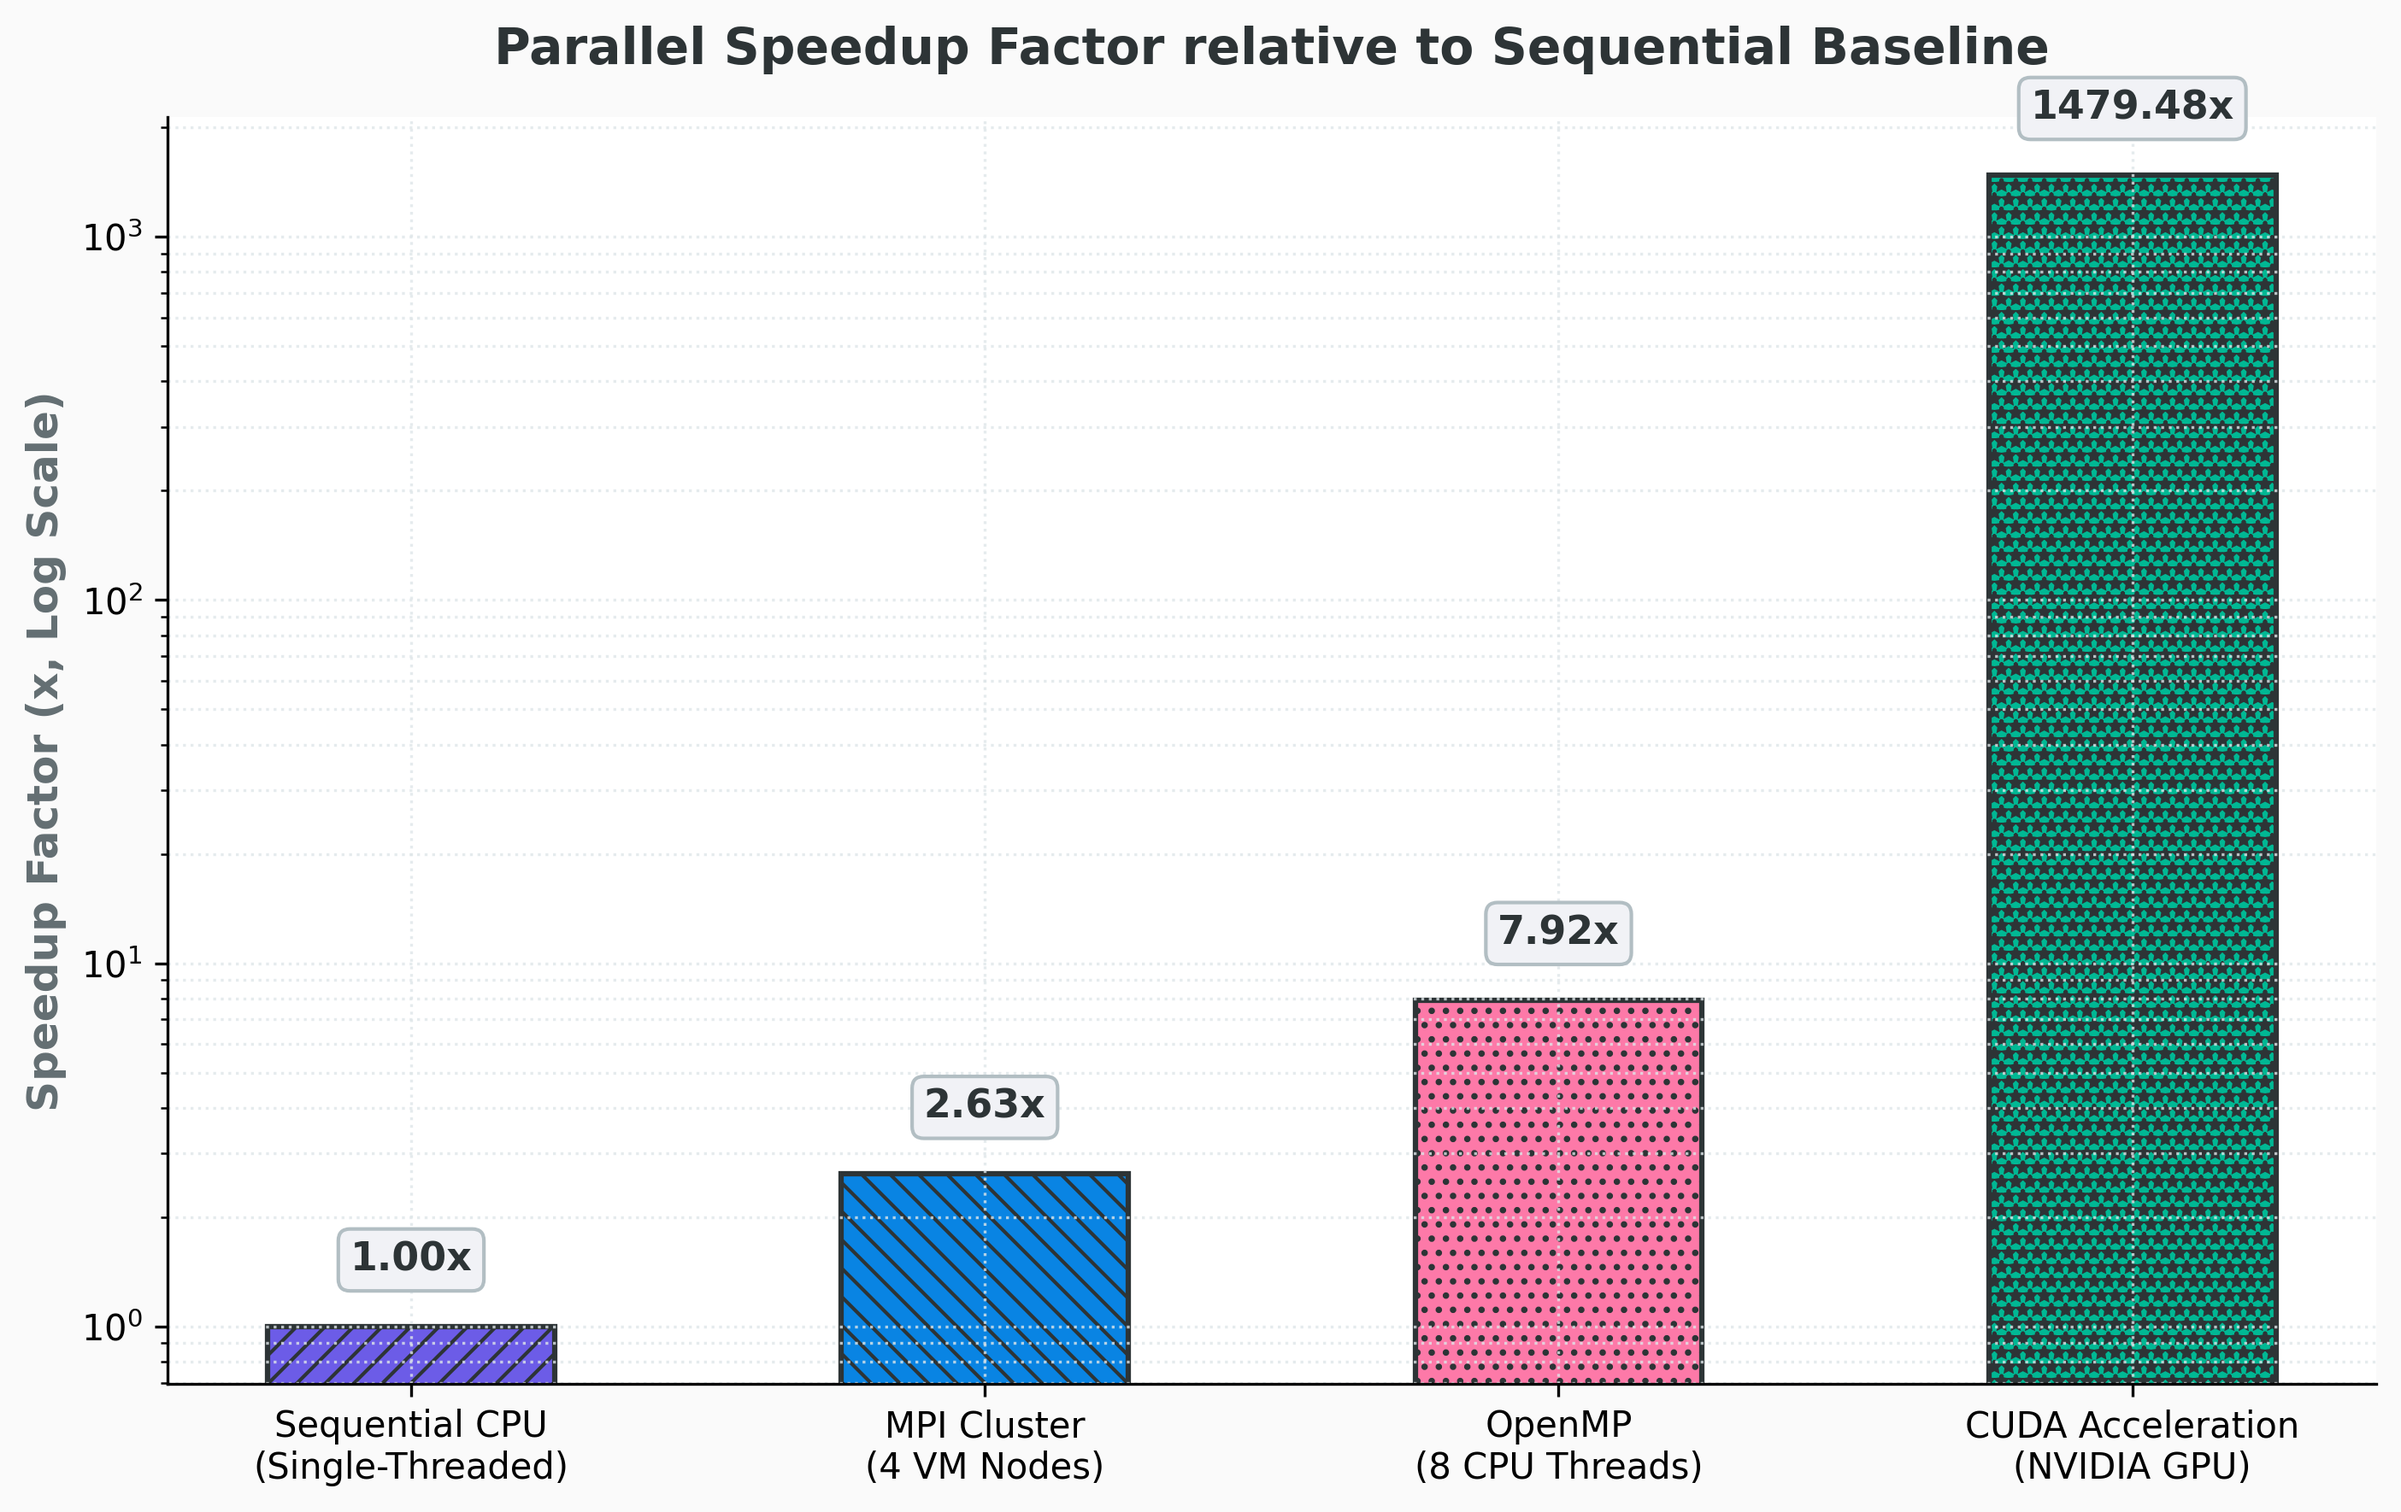
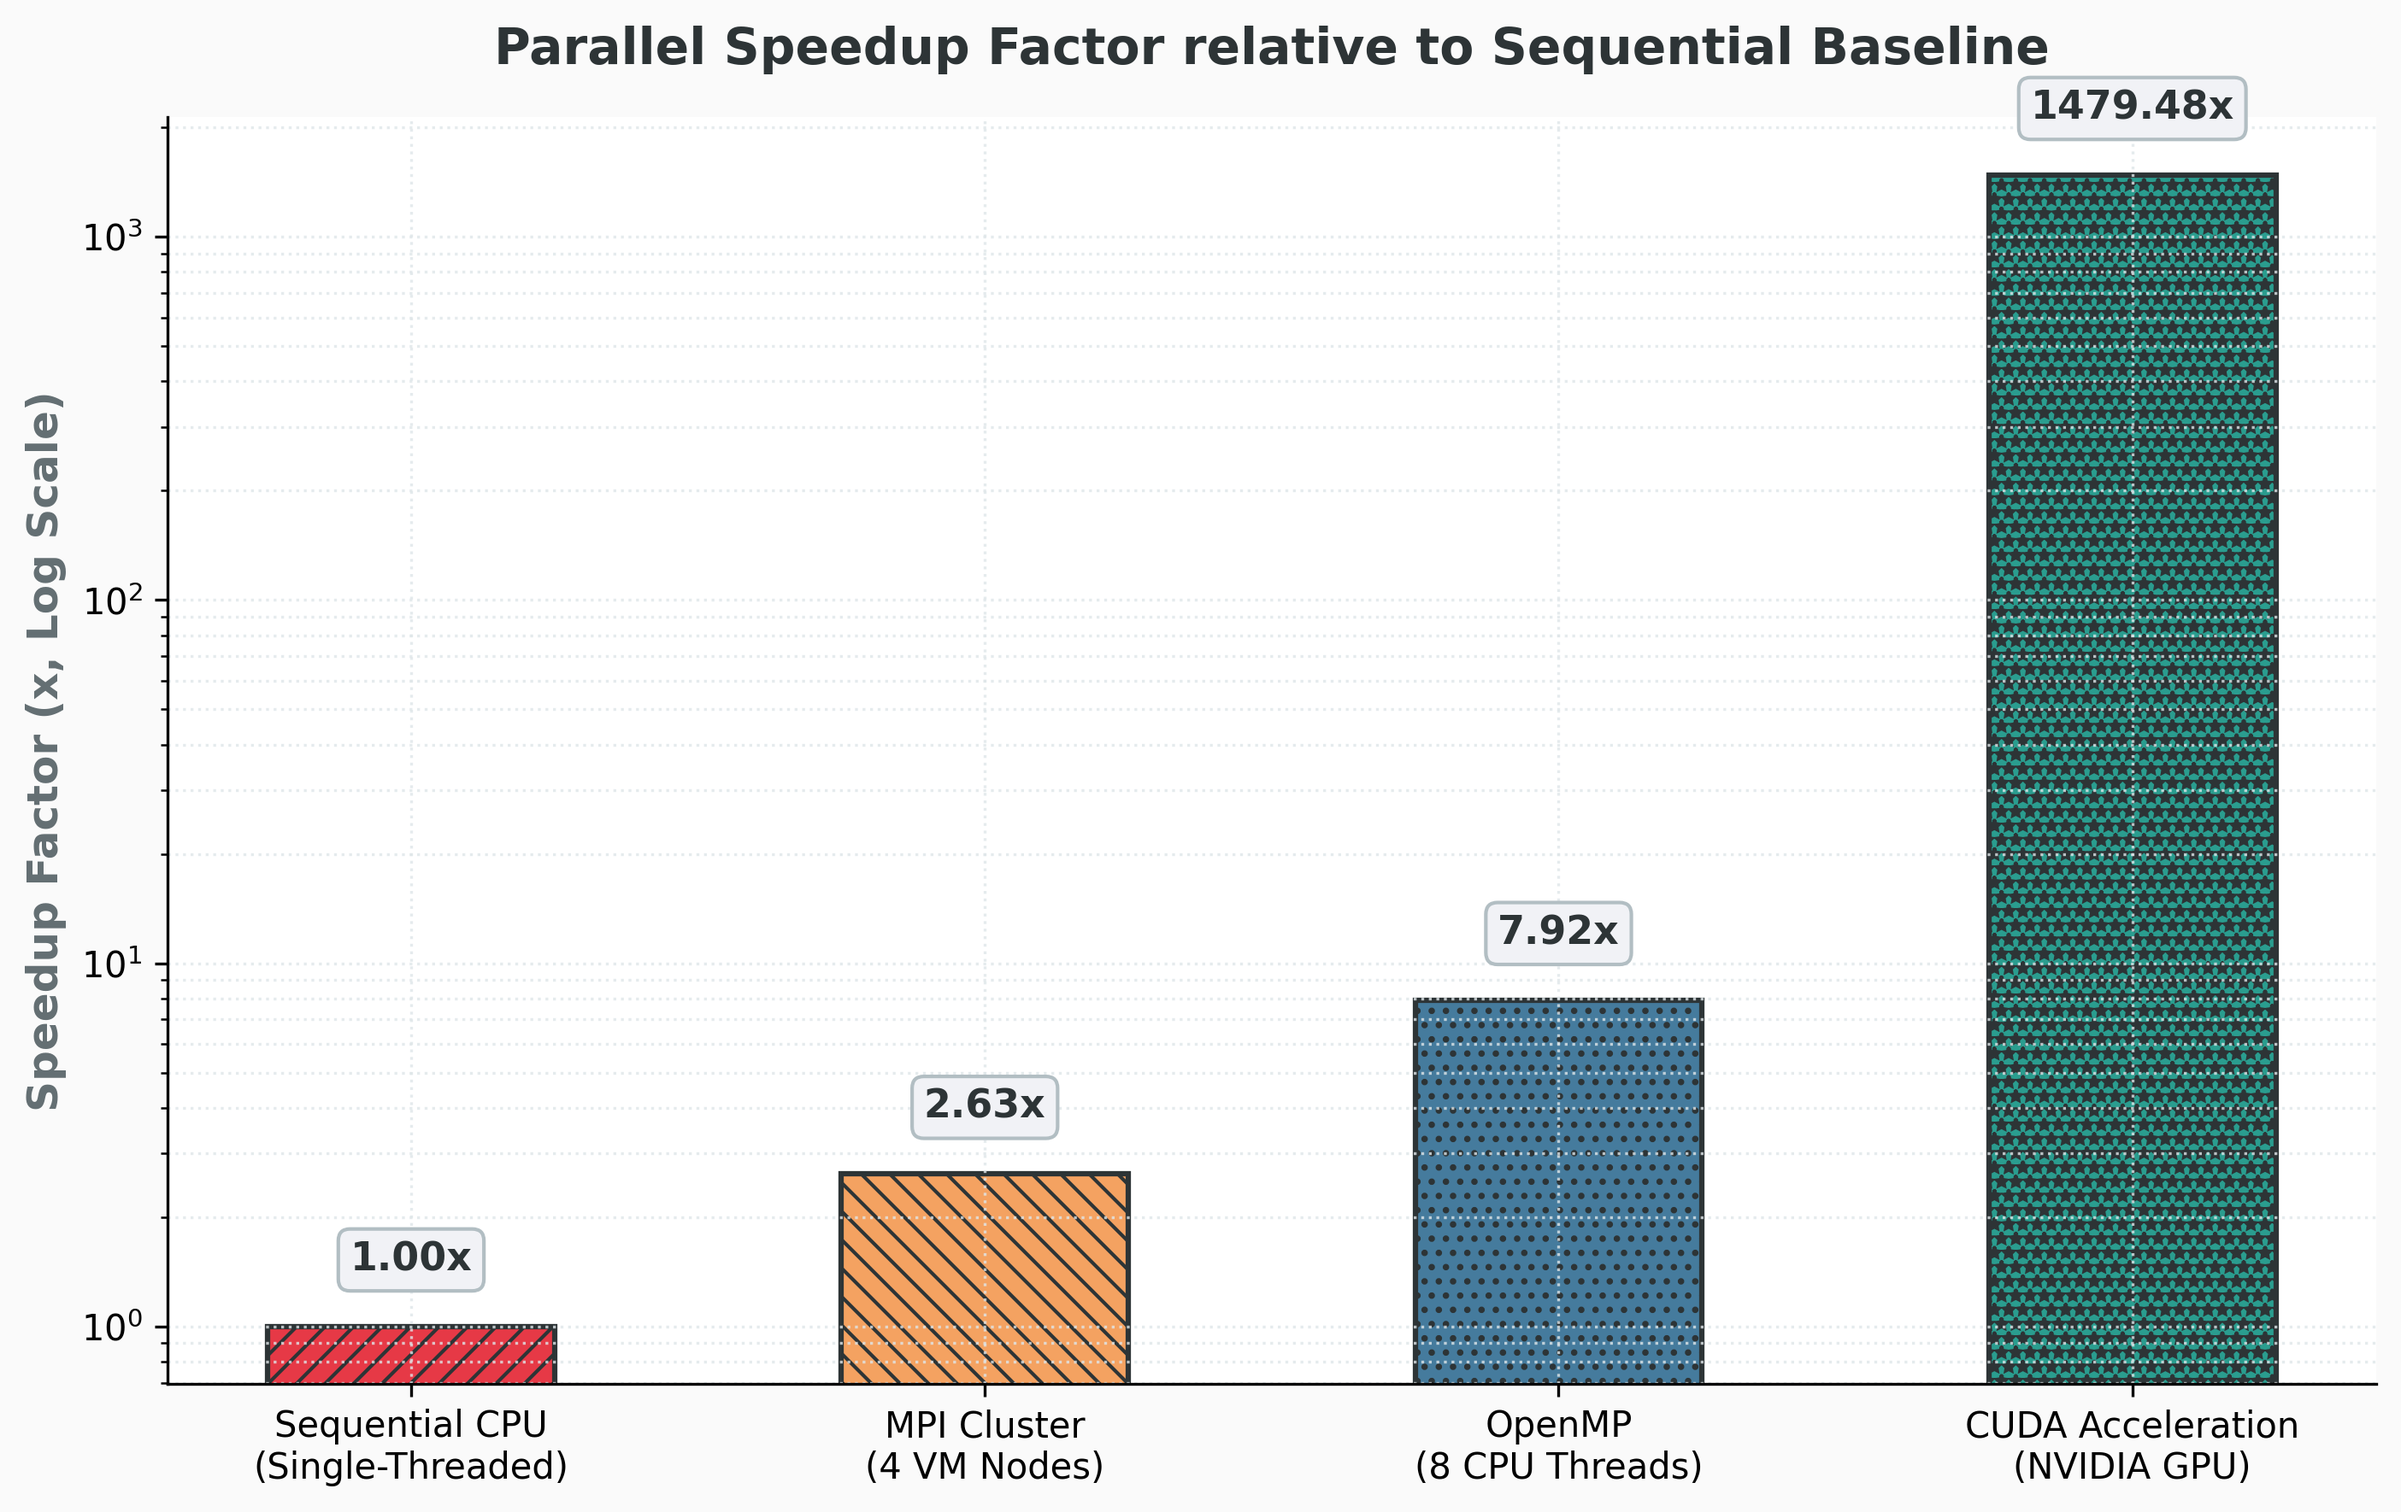
Update chart colors for better readability

diff --git a/script/chart.py b/script/chart.py
@@ -13,7 +13,7 @@ times = [244.12, 92.98, 30.83, 0.165]
 speedups = [1.0, 2.63, 7.92, 1479.48]
 
 # Distinct modern color palette & hatching patterns
-colors = ['#6C5CE7', '#0984E3', '#FD79A8', '#00B894']
+colors = ['#E63946', '#F4A261', '#457B9D', '#2A9D8F']
 hatches = ['///', '\\\\\\', '...', '***']
 
 # 1. Combined Performance Chart
